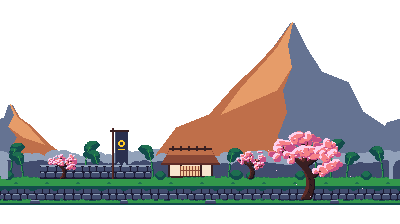
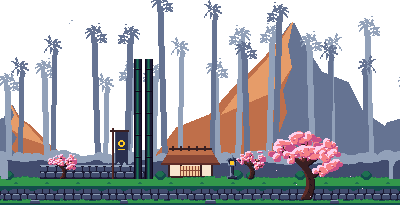
Dojo: drums in place of crates; art re-copy
Claude-Session: https://claude.ai/code/session_0114fZk9r84XsbnoNJLbsP6i

diff --git a/index.html b/index.html
@@ -1214,13 +1214,13 @@ kbd { font-family: var(--body); background: var(--panel); padding: 1px 6px; bord
     const r = rngOf(211 + n * 13), props = [], t = mixOf(n, 4, 211); /* the GALLERY screen (t === 4) is off: the dojo is one tall hall again and has no stairs sprite (Daniel, via the art thread, 2026-11-15) */
     const decor = [['scroll', 230, n % 3], ['lamp', 560], ['rack', 760], ['lamp', 1080], ['scroll', 1320, (n + 1) % 3]];
     const dm = x => props.push({ k: 'dummy', x, w: 60, h: 110 });
-    if (t === 0) { for (let x = 380 + pk(r, 0, 60, 20); x < 1350; x += pk(r, 240, 320, 40)) dm(x); props.push({ k: 'box', x: 250, w: 90, h: 80 }); }
+    if (t === 0) { for (let x = 380 + pk(r, 0, 60, 20); x < 1350; x += pk(r, 240, 320, 40)) dm(x); }
     else if (t === 1) { const x0 = pk(r, 400, 520, 40), k = pk(r, 6, 8, 1); props.push({ k: 'box', x: x0 - 140, w: 90, h: 80 }); for (let i = 0; i < k; i++) props.push({ k: 'beam', plat: 1, x: x0 + i * 100, w: 100, h: 160, hp: 2 }); dm(x0 + 150); dm(x0 + 150 + pk(r, 260, 340, 40)); }
     else if (t === 4) { /* the gallery (Daniel: two levels need stairs): stairs up, the gallery floor at the painted beam (320), stairs down; dummies and a drum underneath */
       props.push({ k: 'stairs', plat: 1, rise: 1, raw: 1, x: 440, w: 320, h: 320 }); for (let q = 0; q < 5; q++) props.push({ k: 'floor', plat: 1, raw: 1, hp: 2, x: 656 + q * 112, w: 112, h: 320 }); props.push({ k: 'stairs', plat: 1, rise: -1, raw: 1, x: 1316, w: 320, h: 320 });
       dm(pk(r, 700, 760, 30)); props.push({ k: 'drum', x: pk(r, 900, 960, 30), w: 104, h: 136 }); dm(pk(r, 1080, 1120, 20)); }
     else if (t === 3) { /* a raised training stage (from Daniel's dojo references), a beam roof over it, a dummy guarding the way off */
-      const sw = pk(r, 384, 512, 64), sx = pk(r, 520, 600, 40); props.push({ k: 'box', x: sx - 120, w: 90, h: 80 }, { k: 'crate', x: sx + sw / 2, w: sw, h: 96 });
+      const sw = pk(r, 384, 512, 64), sx = pk(r, 520, 600, 40); props.push({ k: 'crate', x: sx + sw / 2, w: sw, h: 96 });
       for (let i = 0; i < 2; i++) props.push({ k: 'beam', plat: 1, x: sx + sw / 2 - 50 + i * 100, w: 100, h: 96 + 150, hp: 2 }); dm(sx + sw + pk(r, 160, 220, 30)); }
     else { props.push({ k: 'drum', x: pk(r, 360, 440, 40), w: 104, h: 136 }); dm(600); props.push({ k: 'box', x: 720, w: 90, h: 80 }); for (let i = 0; i < 3; i++) props.push({ k: 'beam', plat: 1, x: 820 + i * 100, w: 100, h: 160, hp: 2 }); dm(1240); }
     return { name: 'DOJO ' + ['DUMMY ROW', 'HIGH BEAM', 'DRILL', 'STAGE', 'GALLERY'][t] + ' ' + (Math.floor(n / 3) + 1), sec: 'dojo', style: 'shoji', wall: ['#ead4aa', '#e4a672', '#733e39'], floor: ['#e4a672', '#b86f50'], decor, props };
@@ -1430,7 +1430,7 @@ kbd { font-family: var(--body); background: var(--panel); padding: 1px 6px; bord
   const SEC_ART = { house: 'house', dojo: 'dojo', bamboo: 'bamboo', 'rooftop-jumps': 'rooftop', 'lake-dive': 'lake', lake: 'lake', volcano: 'volcano', snow: 'snow', space: 'space' };
   const FIT = { // props take the size of their drawn sprite (world px), so what you see is what blocks you
     house: { table: [128, 64, 'table'], desk: [128, 64, 'table'], side: [64, 64, 'crate'], box: [64, 64, 'crate'], crate: [64, 64, 'crate'], tv: [160, 128, 'tv'], wardrobe: [96, 160, 'wardrobe'], shelf: [128, 128, 'shelf'], armchair: [96, 96, 'armchair'], chair: [48, 80, 'chair'], stove: [80, 112, 'stove'], gclock: [56, 160, 'clock'], plant: [96, 128, 'plant'], fridge: [64, 128, 'fridge'], bed: [192, 56, 'bed'], counter: [192, 96, 'sofa'] },
-    dojo: { box: [64, 64, 'crate'], dummy: [72, 150, 'dummy'] /* drawn 184 tall at the scale of 我, but it blocks only up to 150 so one jump clears it */, drum: [104, 136, 'drum'] }, bamboo: { shroom: [64, 48, 'shroom'], hedge: [160, 72, 'hedge'], pot: [64, 56, 'pot'] }, volcano: { rock: [96, 64, 'rock'], slab: [96, 0, 'slab'] }, space: { pod: [80, 112, 'pod'] }
+    dojo: { box: [104, 136, 'drum'] /* no crates in the dojo (Daniel questioned them, 2026-11-15): every dojo `box` is a drum */, dummy: [72, 150, 'dummy'] /* drawn 184 tall at the scale of 我, but it blocks only up to 150 so one jump clears it */, drum: [104, 136, 'drum'] }, bamboo: { shroom: [64, 48, 'shroom'], hedge: [160, 72, 'hedge'], pot: [64, 56, 'pot'] }, volcano: { rock: [96, 64, 'rock'], slab: [96, 0, 'slab'] }, space: { pod: [80, 112, 'pod'] }
   };
   function fitProps(list) { for (const rm of list) { if (rm.scene === 'dive') { rm.hill = [[0, 560], [330, 560], [334, 0], [1600, 0]]; rm.water = { x0: 334, top: 200 }; for (const p of rm.props || []) if (!p.plat && p.h > 88) p.h = 88; } /* the pond lies at ground level, below a tall last roof (Daniel) */ const F = !rm.climb && rm.scene !== 'lift' && FIT[rm.outdoor ? 'bamboo' : SEC_ART[rm.sec || 'house']]; if (F) for (const p of rm.props || []) { const f = F[p.k]; if (f && !p.hh) { p.w = f[0]; if (f[1]) p.h = f[1]; } } } }
   function buildRooms(seed, mode) { // (re)build the whole journey from a seed, the same on every page

diff --git a/CLAUDE.md b/CLAUDE.md
@@ -261,6 +261,7 @@ A pixel-art party game in a single file, `index.html`, hosted on GitHub Pages
   Dojo again (art thread, 2026-11-15, later the same day): ONE tall hall, no gallery and no stairs sprite. The GALLERY screen is
   switched off (`mixOf(n, 4, 211)`; its code stays). The DRILL screen starts with a `drum`. The set paints a roof ridge to stand on
   at art y 48, but Daniel had the stairs and ladders removed for now, so the roof is not reachable.
+  No crates in the dojo (Daniel questioned the crate in the art mock, 2026-11-15): `FIT.dojo` turns every dojo `box` into a `drum`.
   Tower climb stairs stay the original `stair_step` (Daniel rejected the station-style stairs; never wired).
 - No wall holes (Daniel, 2026-11-15): the holes a landed fist used to leave on the back wall (`addHole`, `FX.holes`, `wallHole`)
   looked out of place on the new art; `addHole` now does nothing. It was only a visual.
